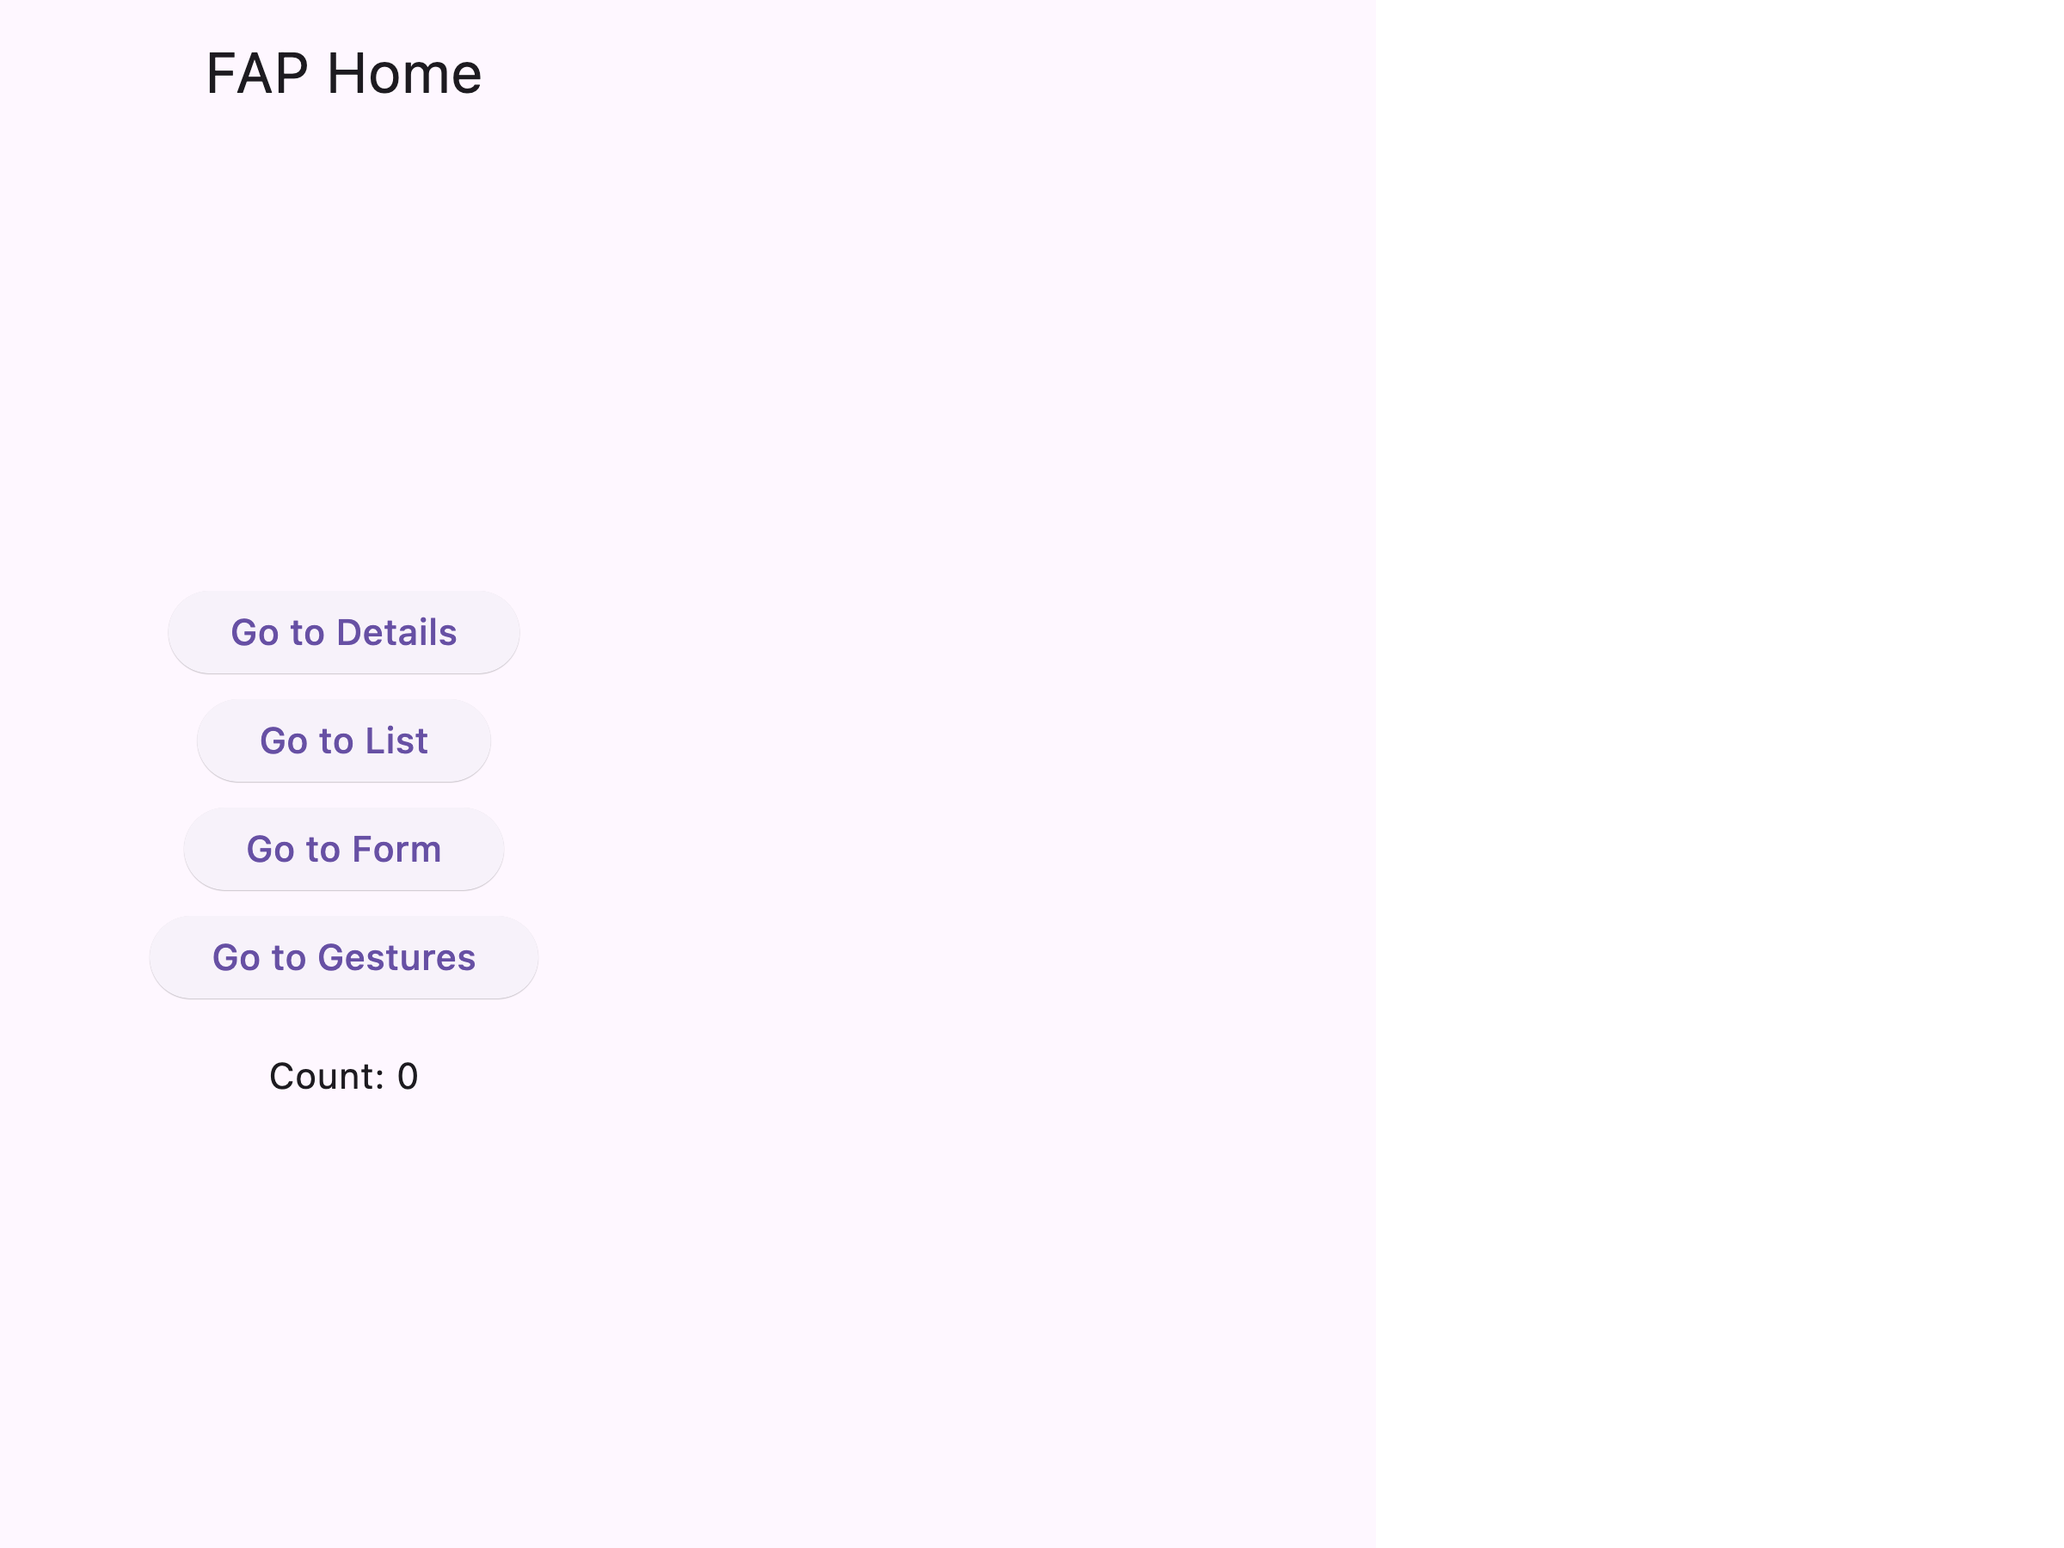
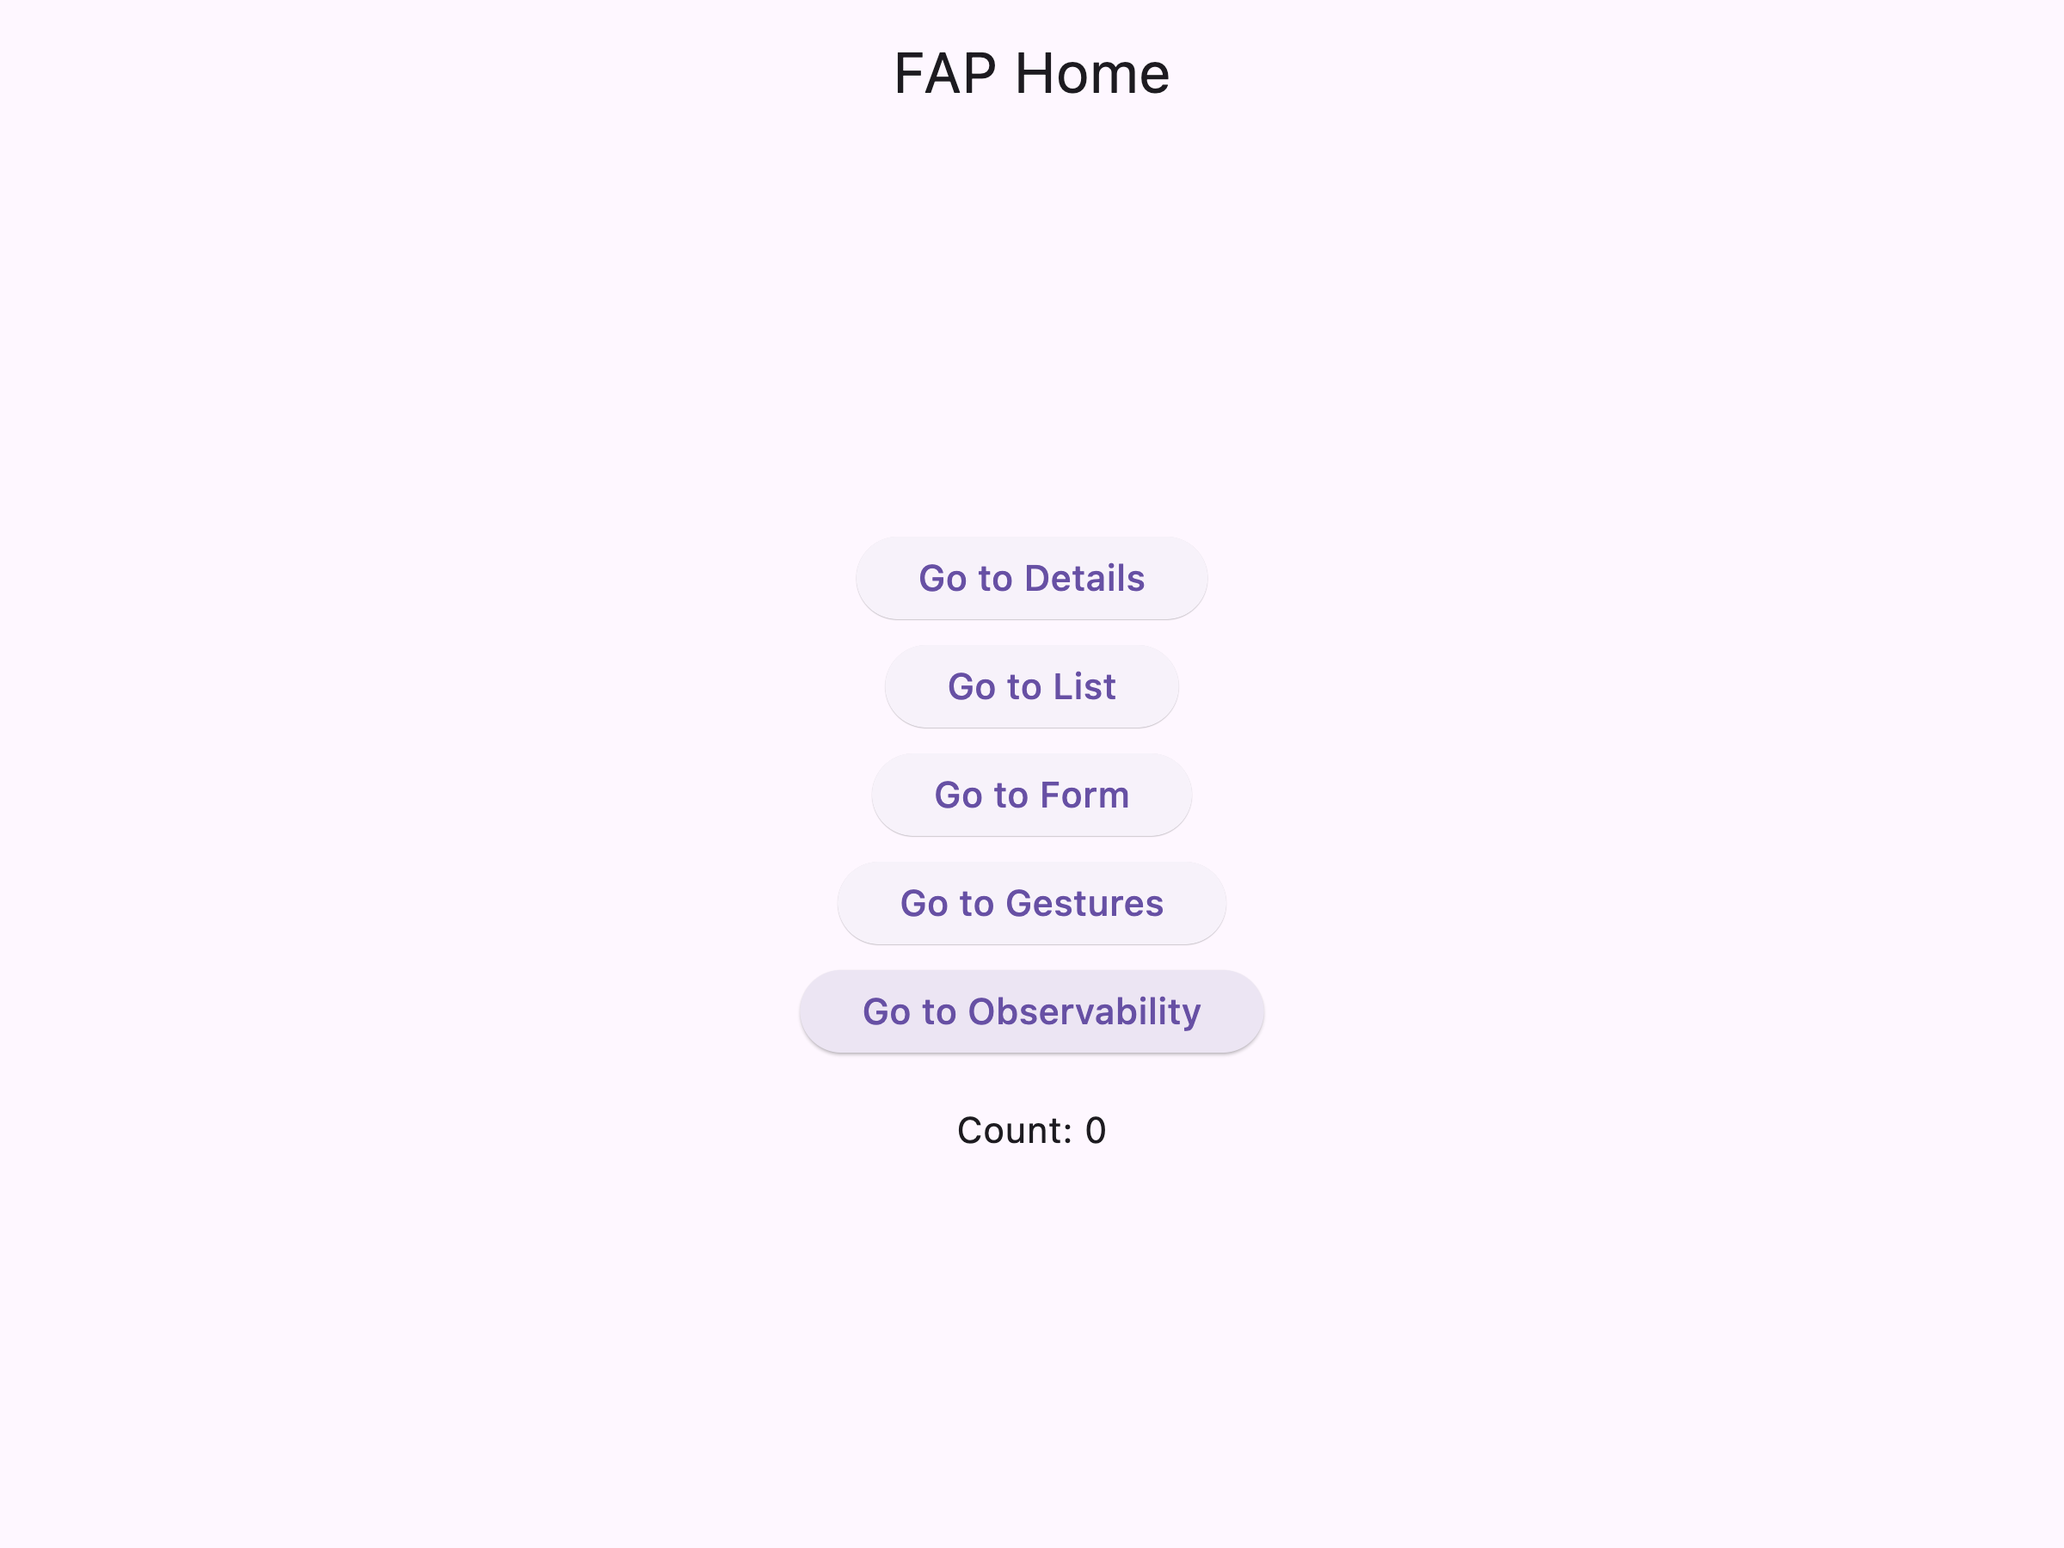
Implement Task G: Observability & Diagnostics (Complete)
Add comprehensive observability features including performance metrics,
log capture, and async error handling as specified in the protocol.

PERFORMANCE METRICS:
- Implement FrameTiming collection via SchedulerBinding
  - Captures last 100 frame timings in circular buffer
  - addTimingsCallback() hooks into Flutter's frame pipeline
  - Tracks build, raster, and total frame durations
  - Exposes metrics in microseconds for precision

LOG CAPTURE:
- Override debugPrint to intercept all debug logs
  - Maintains circular buffer of last 1000 log messages
  - Timestamps each log entry
  - Preserves original debugPrint functionality
  - Logs accessible via getLogs() RPC method

ASYNC ERROR HANDLING:
- Hook PlatformDispatcher.instance.onError
  - Captures async exceptions missed by FlutterError.onError
  - Stores last 100 async errors with stack traces
  - Timestamps for correlation with other events
  - Allows errors to propagate (returns false)

RPC HANDLER ENHANCEMENTS:
- Add getPerformanceMetrics() method
  - Returns array of {build, raster, total} timing objects
  - All values in microseconds

- Add getLogs() method
  - Returns timestamped log messages

- Enhanced getErrors() method
  - Combines FlutterError.onError errors (framework)
  - Plus PlatformDispatcher errors (async)
  - Tagged with error type for distinction

CLIENT SDK ADDITIONS:
- Add getPerformanceMetrics() method
  - Returns typed array of performance metrics
[…]

diff --git a/fap_client/src/e2e_test.ts b/fap_client/src/e2e_test.ts
@@ -43,6 +43,21 @@ async function main() {
         // Wait for navigation
         await sleep(1000);
 
+        // Wait for Form Screen
+        console.log('Waiting for Form Screen...');
+        let formRetries = 0;
+        let formScreenTree = await client.getTree();
+        while (!formScreenTree.find(e => e.label === 'Enter Text') && formRetries < 20) {
+            await sleep(500);
+            formScreenTree = await client.getTree();
+            console.log('Waiting for Form Screen... Tree size:', formScreenTree.length);
+            // console.log('Tree labels:', formScreenTree.map(e => e.label).filter(l => l));
+            formRetries++;
+        }
+        if (!formScreenTree.find(e => e.label === 'Enter Text')) {
+            throw new Error('Form Screen failed to load');
+        }
+
         // 4. Enter Text
         console.log('Tapping text field...');
         await client.tap('label="Enter Text"');
@@ -149,7 +164,71 @@ async function main() {
         console.log('Item 10 visible:', !!item10);
         if (!item10) console.warn('Scroll might not have worked or Item 10 is not in view yet.');
 
-        // 8. Capture Screenshot
+        // 8. Observability
+        console.log('--- Observability Verification ---');
+        console.log('Navigating back to Home...');
+        // Use AppBar back button
+        await client.tap('key=gestures_back_button');
+        await sleep(1000);
+        await sleep(1000);
+
+        // Wait for Home Screen
+        console.log('Waiting for Home Screen...');
+        let homeRetries = 0;
+        let homeTree = await client.getTree();
+        while (!homeTree.find(e => e.key === 'gestures_button') && homeRetries < 20) {
+            await sleep(500);
+            homeTree = await client.getTree();
+            console.log('Waiting for Home Screen... Tree size:', homeTree.length);
+            // console.log('Tree keys:', homeTree.map(e => e.key).filter(k => k));
+            homeRetries++;
+        }
+        if (!homeTree.find(e => e.key === 'gestures_button')) {
+            throw new Error('Home Screen failed to load');
+        }
+
+        console.log('Navigating to Observability Screen...');
+        await client.tap('key=observability_button');
+        await sleep(1000);
+
+        // 8a. Logs
+        console.log('Testing Log Capture...');
+        await client.tap('key=log_button');
+        await sleep(500);
+        const logs = await client.getLogs();
+        console.log('Captured Logs:', logs.length);
+        const foundLog = logs.some(l => l.includes('Test Log Message'));
+        if (!foundLog) throw new Error('Failed to capture log message');
+        console.log('Log capture verified!');
+
+        // 8b. Performance Metrics
+        console.log('Testing Performance Metrics...');
+        await client.tap('key=jank_button'); // Trigger some work
+        await sleep(500);
+        const metrics = await client.getPerformanceMetrics();
+        console.log('Captured Metrics:', metrics.length);
+        if (metrics.length === 0) throw new Error('No performance metrics captured');
+        console.log('Last frame build time:', metrics[metrics.length - 1].build, 'us');
+        console.log('Performance metrics verified!');
+
+        // 8c. Async Errors
+        console.log('Testing Async Error Capture...');
+        await client.tap('key=error_button');
+        await sleep(500);
+        const errors = await client.getErrors();
+        console.log('Captured Errors:', errors);
+        const foundError = errors.some(e =>
+            (typeof e === 'string' && e.includes('Test Async Error')) ||
+            (e.message && e.message.includes('Test Async Error'))
+        );
+        if (!foundError) throw new Error('Failed to capture async error');
+        console.log('Async error capture verified!');
+
+        console.log('Navigating back to Home...');
+        await client.tap('key=back_home_button');
+        await sleep(1000);
+
+        // 9. Screenshot
         console.log('Capturing screenshot...');
         const screenshot = await client.captureScreenshot();
         const screenshotPath = path.resolve('e2e_screenshot.png');
@@ -157,11 +236,12 @@ async function main() {
         console.log(`Screenshot captured (${screenshot.length} bytes)`);
         console.log(`Saved to: ${screenshotPath}`);
 
-        await client.disconnect();
-
+        console.log('E2E Test Passed!');
     } catch (e) {
         console.error('E2E Test Failed:', e);
         process.exit(1);
+    } finally {
+        await client.disconnect();
     }
 }
 

diff --git a/fap_agent/example/lib/main.dart b/fap_agent/example/lib/main.dart
@@ -26,6 +26,7 @@ class MyApp extends StatelessWidget {
         '/list': (context) => const ListScreen(),
         '/form': (context) => const FormScreen(),
         '/gestures': (context) => const GesturesScreen(),
+        '/observability': (context) => const ObservabilityScreen(),
       },
     );
   }
@@ -64,6 +65,12 @@ class HomeScreen extends StatelessWidget {
               key: const Key('gestures_button'),
               onPressed: () => Navigator.pushNamed(context, '/gestures'),
               child: const Text('Go to Gestures'),
+            ),
+            const SizedBox(height: 10),
+            ElevatedButton(
+              key: const Key('observability_button'),
+              onPressed: () => Navigator.pushNamed(context, '/observability'),
+              child: const Text('Go to Observability'),
             ),
             const SizedBox(height: 20),
             Semantics(
@@ -189,9 +196,20 @@ class _GesturesScreenState extends State<GesturesScreen> {
   @override
   Widget build(BuildContext context) {
     return Scaffold(
-      appBar: AppBar(title: const Text('Gestures')),
-      body: SingleChildScrollView(
-        child: Column(
+      appBar: AppBar(
+        title: const Text('Gestures'),
+        leading: IconButton(
+          key: const Key('gestures_back_button'),
+          icon: const Icon(Icons.arrow_back),
+          onPressed: () => Navigator.pop(context),
+        ),
+      ),
+      body: Semantics(
+        key: const Key('gestures_scroll_view'),
+        label: 'Gestures Scroll View',
+        explicitChildNodes: true,
+        child: SingleChildScrollView(
+          child: Column(
           children: [
             const SizedBox(height: 20),
             Text('Status: $_status', key: const Key('gesture_status')),
@@ -266,6 +284,67 @@ class _GesturesScreenState extends State<GesturesScreen> {
                   ),
                 ),
               ),
+            ),
+            const SizedBox(height: 20),
+            ElevatedButton(
+              key: const Key('back_home_button'),
+              onPressed: () => Navigator.pop(context),
+              child: const Text('Back to Home'),
+            ),
+          ],
+        ),
+      ),
+      ),
+    );
+  }
+}
+
+class ObservabilityScreen extends StatelessWidget {
+  const ObservabilityScreen({super.key});
+
+  @override
+  Widget build(BuildContext context) {
+    return Scaffold(
+      appBar: AppBar(title: const Text('Observability')),
+      body: Center(
+        child: Column(
+          mainAxisAlignment: MainAxisAlignment.center,
+          children: [
+            ElevatedButton(
+              key: const Key('log_button'),
+              onPressed: () {
+                debugPrint('Test Log Message ${DateTime.now()}');
+              },
+              child: const Text('Log Message'),
+            ),
+            const SizedBox(height: 20),
+            ElevatedButton(
+              key: const Key('error_button'),
+              onPressed: () {
+                // Async error
+                Future.delayed(const Duration(milliseconds: 100), () {
+                  throw Exception('Test Async Error');
+                });
+              },
+              child: const Text('Trigger Async Error'),
+            ),
+            const SizedBox(height: 20),
+            ElevatedButton(
+              key: const Key('jank_button'),
+              onPressed: () {
+                // Simulate jank (block UI thread)
+                final end = DateTime.now().add(const Duration(milliseconds: 200));
+                while (DateTime.now().isBefore(end)) {
+                  // Busy wait
+                }
+              },
+              child: const Text('Trigger Jank'),
+            ),
+            const SizedBox(height: 20),
+            ElevatedButton(
+              key: const Key('back_home_button'),
+              onPressed: () => Navigator.pop(context),
+              child: const Text('Back to Home'),
             ),
           ],
         ),

diff --git a/fap_agent/lib/fap_agent.dart b/fap_agent/lib/fap_agent.dart
@@ -1,9 +1,15 @@
 import 'dart:async';
+import 'dart:collection';
+import 'dart:ui';
+import 'package:flutter/foundation.dart';
+import 'package:flutter/scheduler.dart';
 import 'package:flutter/widgets.dart';
 import 'package:flutter/rendering.dart';
 
 import 'src/server/rpc_handler.dart';
 import 'src/server/ws_server.dart';
+
+export 'src/widgets/fap_meta.dart';
 
 class FapConfig {
   final int port;
@@ -21,7 +27,14 @@ class FapAgent {
   FapServer? _server;
   SemanticsHandle? _semanticsHandle;
 
+  // Observability Data
+  final ListQueue<FrameTiming> _frameTimings = ListQueue<FrameTiming>(100);
+  final ListQueue<String> _logs = ListQueue<String>(1000);
+  final ListQueue<String> _errors = ListQueue<String>(100);
+
   FapAgent._(this.config);
+
+  static FapAgent get instance => _instance!;
 
   static Future<void> init(FapConfig config) async {
     print('FapAgent: Initializing...');
@@ -33,13 +46,41 @@ class FapAgent {
     _instance!._semanticsHandle = SemanticsBinding.instance.ensureSemantics();
     print('FapAgent: Semantics enabled. Handle: ${_instance!._semanticsHandle}');
     
+    _instance!._setupObservability();
     await _instance!._start();
+  }
+
+  void _setupObservability() {
+    // 1. Frame Timings
+    SchedulerBinding.instance.addTimingsCallback((timings) {
+      for (final timing in timings) {
+        _frameTimings.add(timing);
+        if (_frameTimings.length > 100) _frameTimings.removeFirst();
+      }
+    });
+
+    // 2. Log Capture (intercept debugPrint)
+    final originalDebugPrint = debugPrint;
+    debugPrint = (String? message, {int? wrapWidth}) {
+      if (message != null) {
+        _logs.add('${DateTime.now().toIso8601String()}: $message');
+        if (_logs.length > 1000) _logs.removeFirst();
+      }
+      originalDebugPrint(message, wrapWidth: wrapWidth);
+    };
+
+    // 3. Async Errors
+    PlatformDispatcher.instance.onError = (error, stack) {
+      _errors.add('${DateTime.now().toIso8601String()}: $error\n$stack');
+      if (_errors.length > 100) _errors.removeFirst();
+      return false; // Allow error to propagate
+    };
   }
 
   Future<void> _start() async {
     if (!config.enabled) return;
     
-    final rpcHandler = FapRpcHandlerImpl();
+    final rpcHandler = FapRpcHandlerImpl(agent: this);
     _server = FapServer(port: config.port, rpcHandler: rpcHandler);
     await _server!.start();
   }
@@ -47,5 +88,22 @@ class FapAgent {
   static Future<void> stop() async {
     await _instance?._server?.stop();
     _instance = null;
+  }
+
+  // Public API for RPC Handler
+  List<Map<String, int>> getPerformanceMetrics() {
+    return _frameTimings.map((t) => {
+      'build': t.buildDuration.inMicroseconds,
+      'raster': t.rasterDuration.inMicroseconds,
+      'total': t.totalSpan.inMicroseconds,
+    }).toList();
+  }
+
+  List<String> getLogs() {
+    return _logs.toList();
+  }
+
+  List<String> getErrors() {
+    return _errors.toList();
   }
 }

diff --git a/fap_agent/lib/src/server/rpc_handler.dart b/fap_agent/lib/src/server/rpc_handler.dart
@@ -9,17 +9,20 @@ import '../core/semantics_index.dart';
 import '../utils/errors.dart';
 import '../utils/screenshot.dart';
 
+import '../../fap_agent.dart';
+
 abstract class FapRpcHandler {
   void registerMethods(json_rpc.Server server);
 }
 
 class FapRpcHandlerImpl implements FapRpcHandler {
+  final FapAgent agent;
   final SemanticsIndexer _indexer = SemanticsIndexer();
   final ActionExecutor _executor = ActionExecutor();
   final ErrorMonitor _errorMonitor = ErrorMonitor();
   final ScreenshotUtils _screenshotUtils = ScreenshotUtils();
 
-  FapRpcHandlerImpl() {
+  FapRpcHandlerImpl({required this.agent}) {
     _errorMonitor.start();
   }
 
@@ -80,7 +83,17 @@ class FapRpcHandlerImpl implements FapRpcHandler {
     });
 
     server.registerMethod('getErrors', (json_rpc.Parameters params) {
-      return _errorMonitor.getErrors().map((e) => e.toJson()).toList();
+      final frameworkErrors = _errorMonitor.getErrors().map((e) => e.toJson()).toList();
+      final asyncErrors = agent.getErrors().map((e) => {'message': e, 'type': 'async'}).toList();
+      return [...frameworkErrors, ...asyncErrors];
+    });
+
+    server.registerMethod('getPerformanceMetrics', (json_rpc.Parameters params) {
+      return agent.getPerformanceMetrics();
+    });
+
+    server.registerMethod('getLogs', (json_rpc.Parameters params) {
+      return agent.getLogs();
     });
 
     server.registerMethod('captureScreenshot', (json_rpc.Parameters params) async {

diff --git a/fap_client/src/client.ts b/fap_client/src/client.ts
@@ -129,4 +129,12 @@ export class FapClient {
     async doubleTap(selector: string): Promise<any> {
         return this.request('doubleTap', { selector });
     }
+
+    async getPerformanceMetrics(): Promise<{ build: number; raster: number; total: number }[]> {
+        return this.request('getPerformanceMetrics');
+    }
+
+    async getLogs(): Promise<string[]> {
+        return this.request('getLogs');
+    }
 }
